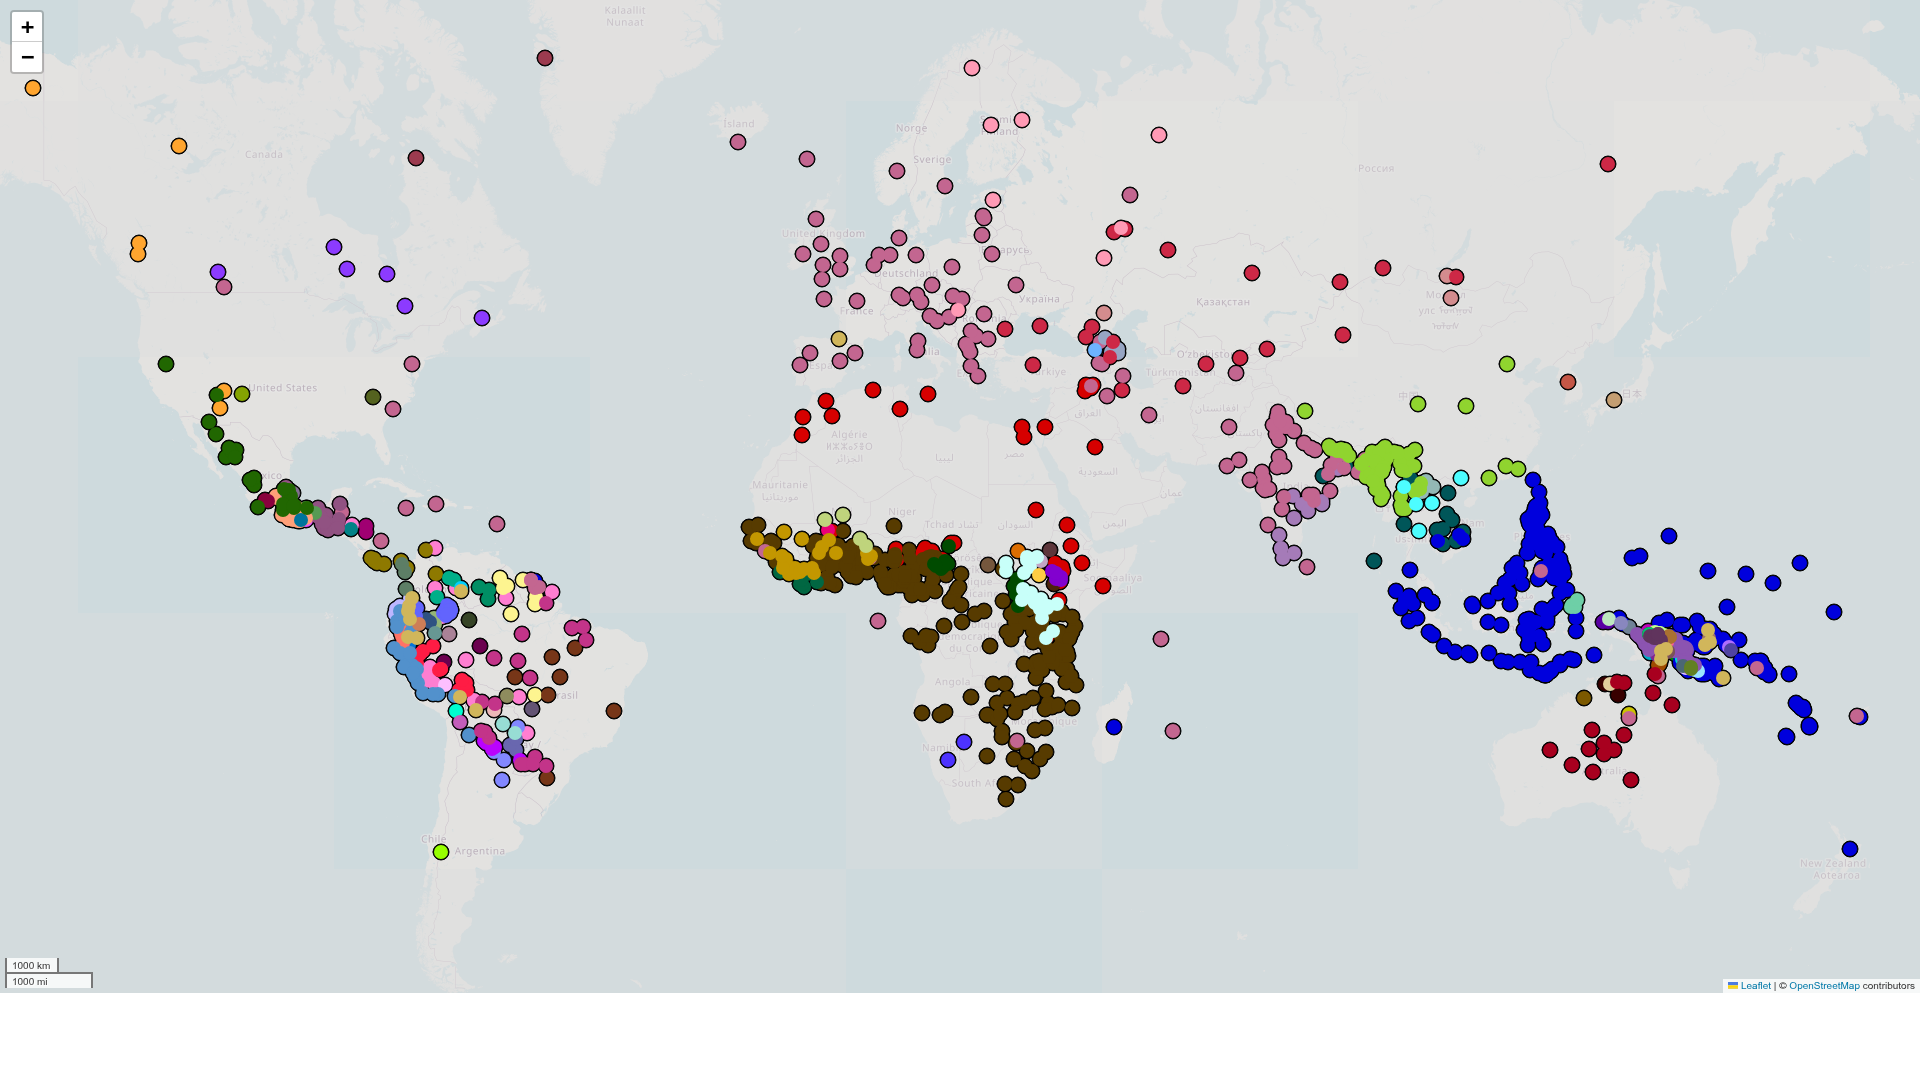
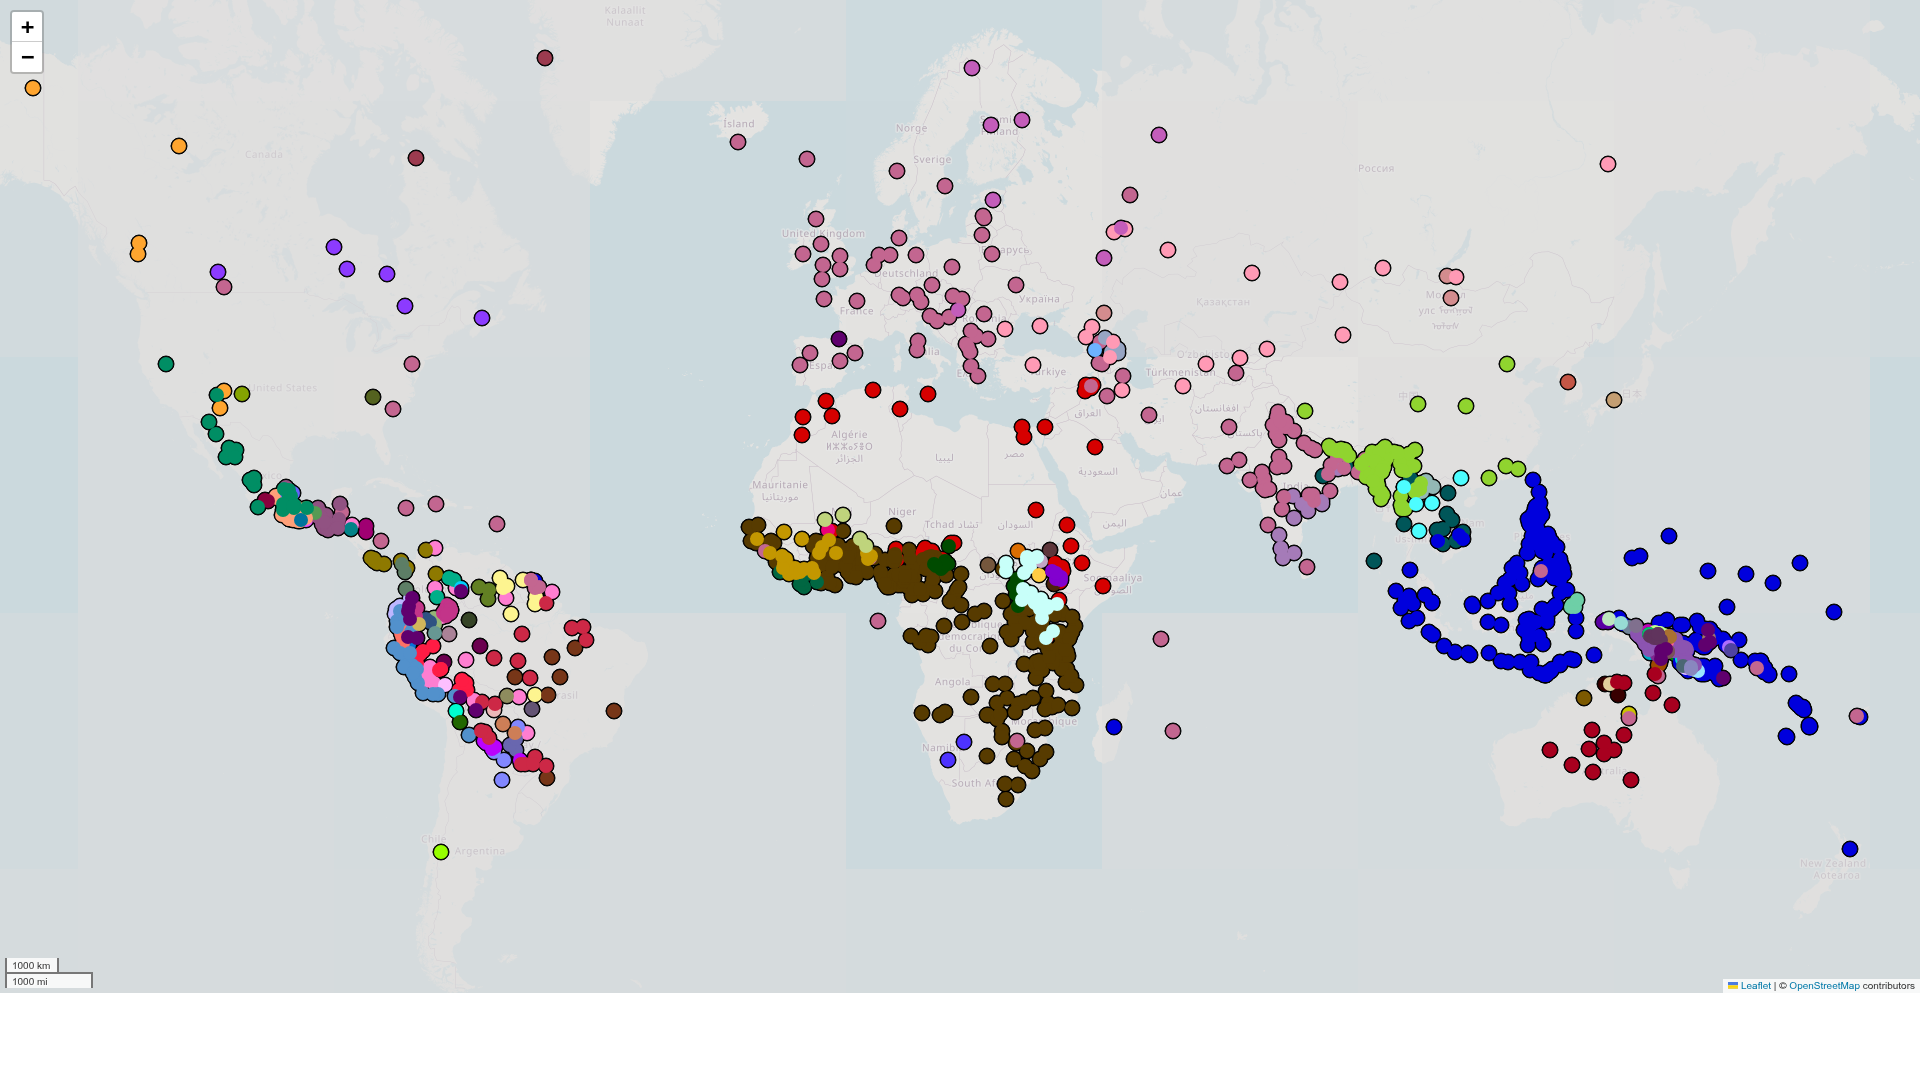
updated language map script to use the main stats file

diff --git a/recipes/make_language_map.py b/recipes/make_language_map.py
@@ -7,7 +7,7 @@ tempdir = "./tmp"
 hti = Html2Image(temp_path=tempdir) # to convert the html to a png file we create a temp dir
 import lingtypology # this package handles a lot of the mapping functions
 
-stats = "../scripts/data/output/stats_All_conllu.xlsx" # the file of stats extracted from the dataset
+stats = "../scripts/data/output/stats_All.xlsx" # the file of stats extracted from the dataset
 df = pd.read_excel(stats) # read the file with stats on word order
 isolist = df['index'].fillna('nan').to_list() # get the iso codes - "nan" is imported by `pandas` as NaN so we replace it
 print(len(isolist)) # there should be 1597 languages (we exclude the conlangs)
